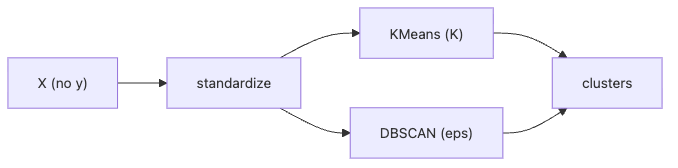
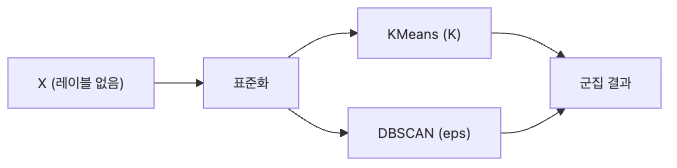
docs(machine-learning-101): localize episode 7 ko visuals (#551)
Ultraworked with [Sisyphus](https://github.com/code-yeongyu/oh-my-openagent)

diff --git a/content/machine-learning-101/ko/07-clustering.md b/content/machine-learning-101/ko/07-clustering.md
@@ -101,7 +101,7 @@ db = DBSCAN(eps=0.5, min_samples=5).fit(X)
 print("labels:", set(db.labels_))
 ```
 
-**Expected output:** KMeans는 inertia와 silhouette 점수를 내고, DBSCAN은 `-1`을 포함할 수 있는 레이블 집합을 반환합니다. `-1`이 보이면 그 점들은 어느 군집에도 자연스럽게 속하지 않는 **노이즈 후보**라는 뜻입니다.
+**예상 출력:** KMeans는 inertia와 silhouette 점수를 내고, DBSCAN은 `-1`을 포함할 수 있는 레이블 집합을 반환합니다. `-1`이 보이면 그 점들은 어느 군집에도 자연스럽게 속하지 않는 **노이즈 후보**라는 뜻입니다.
 
 ## 이 코드에서 먼저 봐야 할 점
 